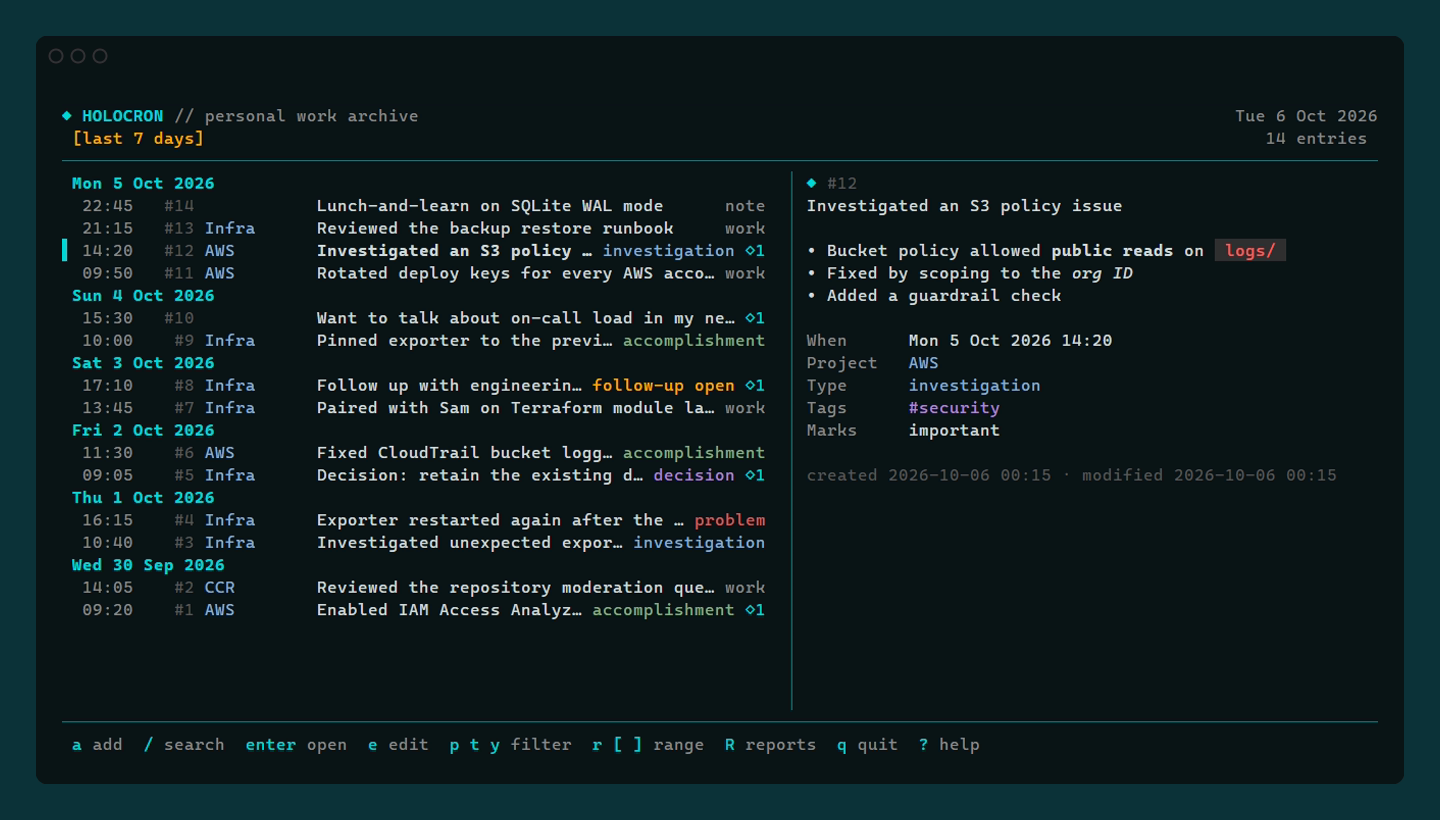
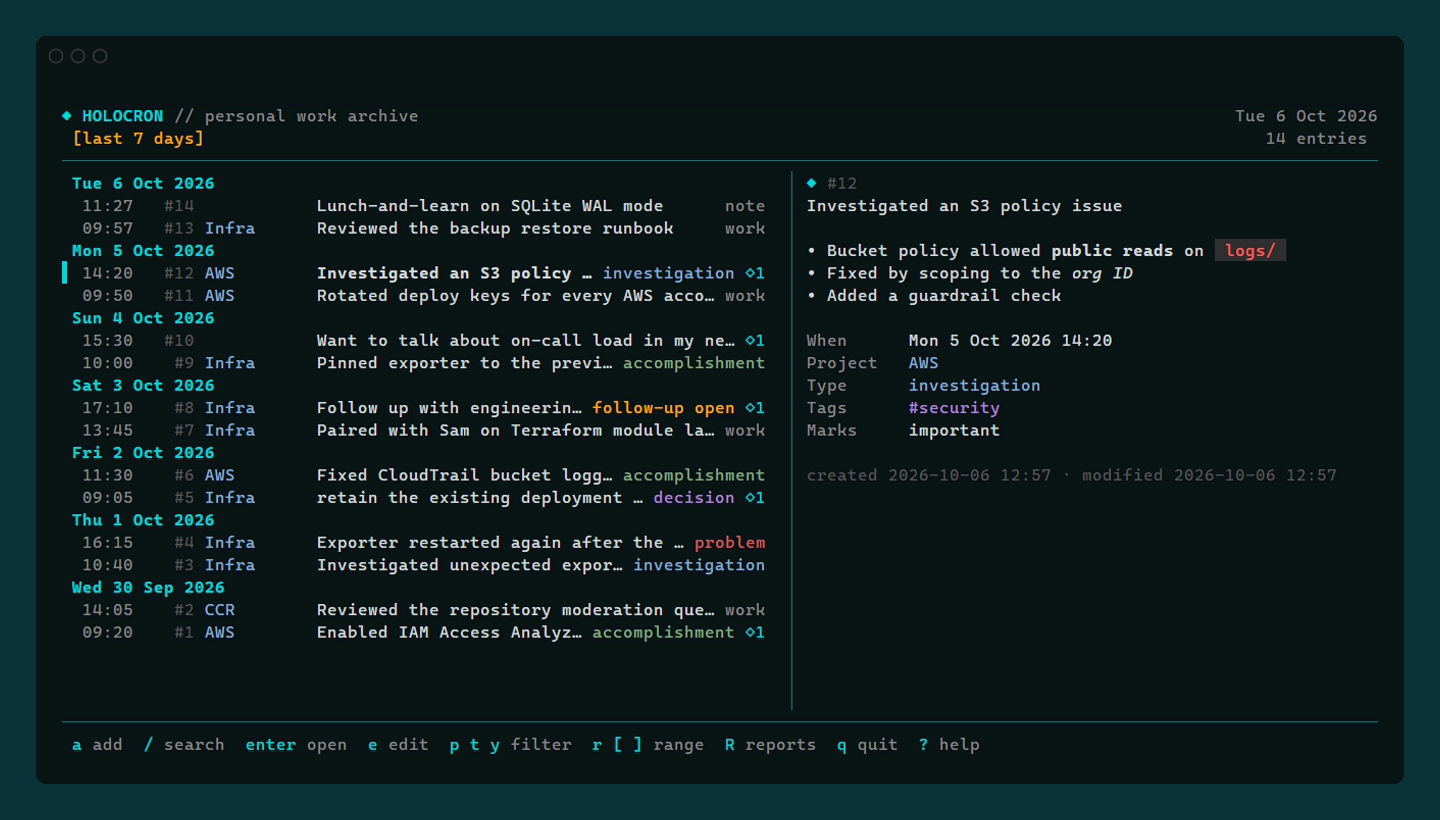
Strip the type prefix from captured entry text (#2)
Closes #1

## What changes

A leading type name and colon in quick capture (`Decision: keep weekly
deploy windows`) still sets the entry's type, and is now removed from
the stored text. The type no longer appears twice in listings, reports
and exports.

| Input | Stored text | Type |
|---|---|---|
| `Decision: keep weekly deploy windows +infra` | keep weekly deploy
windows | decision |
| `decision:no space` / `PROBLEM : spaced out` | no space / spaced out |
decision / problem |
| `Decision: keep it` with `--type work` | Decision: keep it | work |
| `Decision: keep it` with `--raw` | Decision: keep it | — |
| `Decisions: not a type` | Decisions: not a type | — |

Applies to `holocron add`, `holocron now` and TUI quick add (`a`), which
share the capture rules. Entries already in an archive are not changed.

## Notes

- If an explicit `--type` names a different type, the prefix is treated
as ordinary text and kept, so nothing typed is lost.
- The rest of the text keeps its original case (no auto-capitalisation,
which would mangle words like `npm` or `iOS`).
- README and `holocron add --help` are updated, and the README images
are regenerated with `go run ./docs/demo`.

## Testing

- New cases for spacing, letter case, near-misses, multi-line text, a
preceding `+project`, matching and conflicting `--type`, `--raw`, and
TUI quick add.
- `go test ./...`, `go vet` and `golangci-lint` pass locally on Windows.

Changed region(s): [[0.2188, 0.2744, 0.5312, 0.7927], [0.0312, 0.2439, 0.1875, 0.7927], [0.0312, 0.2134, 0.0625, 0.2439]]

diff --git a/internal/journal/shorthand.go b/internal/journal/shorthand.go
@@ -12,12 +12,15 @@ type Capture struct {
 	Project string
 	Tags    []string
 	Type    Type
+	// TypePrefix is the "Decision: " text removed from the start of Body when
+	// it set Type, so a caller overriding the type can put it back.
+	TypePrefix string
 }
 
 var (
 	wordRe     = regexp.MustCompile(`\S+`)
 	sigilRe    = regexp.MustCompile(`^([+#])(\p{L}[\p{L}\p{N}_./:-]*?)([.,;:!?)]*)$`)
-	typeLeadRe = regexp.MustCompile(`(?i)^(decision|problem|investigation|follow-?up|accomplishment|note|work)\s*:\s*\S`)
+	typeLeadRe = regexp.MustCompile(`(?i)^(decision|problem|investigation|follow-?up|accomplishment|note|work)\s*:\s*(\S)`)
 )
 
 // ParseShorthand extracts +project and #tag tokens from quick-capture text.
@@ -30,8 +33,9 @@ var (
 //   - Tokens in the middle of a sentence keep their word in the body without
 //     the sigil: "Patched #security hole" stores "Patched security hole".
 //   - At most one +project may be given.
-//   - Text beginning with a type name and a colon ("Decision: ...") gets
-//     that type unless one is set explicitly. The body is left unchanged.
+//   - Text beginning with a type name and a colon ("Decision: ...") gets that
+//     type, and the prefix is removed from the body: "Decision: keep it"
+//     stores "keep it" as a decision.
 //
 // Shells treat an unquoted # as a comment, so #tags must be inside quotes.
 func ParseShorthand(text string) (Capture, error) {
@@ -89,9 +93,11 @@ func ParseShorthand(text string) (Capture, error) {
 		}
 		c.Body = strings.TrimSpace(b.String())
 	}
-	if m := typeLeadRe.FindStringSubmatch(c.Body); m != nil {
-		if t, err := ParseType(m[1]); err == nil {
+	if m := typeLeadRe.FindStringSubmatchIndex(c.Body); m != nil {
+		if t, err := ParseType(c.Body[m[2]:m[3]]); err == nil {
 			c.Type = t
+			c.TypePrefix = c.Body[:m[4]]
+			c.Body = c.Body[m[4]:]
 		}
 	}
 	return c, nil

diff --git a/internal/journal/journal_test.go b/internal/journal/journal_test.go
@@ -489,8 +489,16 @@ func TestShorthand(t *testing.T) {
 		{"+aws #security Fixed S3 bucket policy", "Fixed S3 bucket policy", "aws", []string{"security"}, ""},
 		{"Patched #security hole in +aws today.", "Patched security hole in aws today.", "aws", []string{"security"}, ""},
 		{"Fixed bug #123 and C# parser, +1 from team", "Fixed bug #123 and C# parser, +1 from team", "", nil, ""},
-		{"Decision: retain the existing deployment model #arch", "Decision: retain the existing deployment model", "", []string{"arch"}, TypeDecision},
-		{"Follow-up: ask about ARM capacity", "Follow-up: ask about ARM capacity", "", nil, TypeFollowUp},
+		{"Decision: retain the existing deployment model #arch", "retain the existing deployment model", "", []string{"arch"}, TypeDecision},
+		{"decision:no space after the colon", "no space after the colon", "", nil, TypeDecision},
+		{"PROBLEM :   exporter restarts", "exporter restarts", "", nil, TypeProblem},
+		{"+aws Accomplishment: rotated keys", "rotated keys", "aws", nil, TypeAccomplishment},
+		{"Note: first line\nsecond line", "first line\nsecond line", "", nil, TypeNote},
+		{"Decisions: not a type name", "Decisions: not a type name", "", nil, ""},
+		{"Decision:", "Decision:", "", nil, ""},
+		{"Mid-sentence decision: stays as text", "Mid-sentence decision: stays as text", "", nil, ""},
+		{"Follow-up: ask about ARM capacity", "ask about ARM capacity", "", nil, TypeFollowUp},
+		{"followup: ask again", "ask again", "", nil, TypeFollowUp},
 		{"Shipped it #release.", "Shipped it", "", []string{"release"}, ""},
 		{"line one\nline two #tag", "line one\nline two", "", []string{"tag"}, ""},
 		{"#only #tags", "", "", []string{"only", "tags"}, ""},

diff --git a/internal/app/app_test.go b/internal/app/app_test.go
@@ -60,6 +60,23 @@ func TestCaptureRules(t *testing.T) {
 	if res.Entry.Type != journal.TypeWork {
 		t.Fatal("explicit --type must beat inferred type")
 	}
+	if res.Entry.Body != "Decision: keep it" {
+		t.Fatalf("a conflicting --type must keep the text as typed, got %q", res.Entry.Body)
+	}
+
+	// The type prefix sets the type and is removed from the stored text (#1).
+	res, _ = a.Capture(ctx, CaptureInput{Text: "Decision: keep weekly deploy windows +infra"})
+	if res.Entry.Type != journal.TypeDecision || res.Entry.Body != "keep weekly deploy windows" || res.Entry.Project != "infra" {
+		t.Fatalf("type prefix capture = %q %q %q", res.Entry.Type, res.Entry.Body, res.Entry.Project)
+	}
+	res, _ = a.Capture(ctx, CaptureInput{Text: "decision: agreed with --type", Type: "dec"})
+	if res.Entry.Type != journal.TypeDecision || res.Entry.Body != "agreed with --type" {
+		t.Fatalf("matching --type should still strip the prefix: %q %q", res.Entry.Type, res.Entry.Body)
+	}
+	res, _ = a.Capture(ctx, CaptureInput{Text: "Decision: kept as typed", Raw: true})
+	if res.Entry.Type != journal.TypeNone || res.Entry.Body != "Decision: kept as typed" {
+		t.Fatalf("--raw must keep the prefix: %q %q", res.Entry.Type, res.Entry.Body)
+	}
 
 	strict := openApp(t, "[capture]\ncreate_projects = false\nshorthand = false\n")
 	if _, err := strict.Capture(ctx, CaptureInput{Text: "x", Project: "nope"}); !errors.Is(err, journal.ErrNotFound) {

diff --git a/internal/cli/add.go b/internal/cli/add.go
@@ -57,7 +57,8 @@ Shorthand inside the text sets metadata quickly:
   #tag       add a tag (quote the text: shells treat a bare # as a comment)
 Tokens at the start or end are removed from the text; in mid-sentence the
 word stays without its sigil. "#123", "C#" and "+1" are left alone.
-Text starting with a type and a colon ("Decision: ...") gets that type.
+Text starting with a type and a colon ("Decision: keep it") gets that type,
+and the prefix is removed from the stored text.
 Use --raw to turn shorthand off, or the flags for an unambiguous form.`,
 		Example: `  holocron add "Enabled IAM Access Analyzer in all AWS regions"
   holocron add "Investigating unexpected exporter restarts" --project cloudflare --type investigation --tag monitoring

diff --git a/internal/tui/tui_test.go b/internal/tui/tui_test.go
@@ -671,3 +671,14 @@ func TestFilterChangeDuringPageLoadKeepsPaging(t *testing.T) {
 		t.Fatalf("paging stuck after a filter change: %d of %d", len(m.entries), m.total)
 	}
 }
+
+func TestQuickAddTypePrefixIsStripped(t *testing.T) {
+	m := start(t, 100, 30)
+	m = send(t, m, key("a"))
+	m = typeText(t, m, "Decision: keep weekly deploy windows +Infra")
+	m = send(t, m, key("enter"))
+	c := m.current()
+	if c == nil || c.Type != journal.TypeDecision || c.Body != "keep weekly deploy windows" || c.Project != "Infra" {
+		t.Fatalf("quick add with a type prefix = %+v", c)
+	}
+}

diff --git a/internal/cli/cli_test.go b/internal/cli/cli_test.go
@@ -140,7 +140,7 @@ func TestCaptureForms(t *testing.T) {
 	if fixed.Project == nil || *fixed.Project != "aws" || strings.Join(fixed.Tags, ",") != "iam,security" {
 		t.Errorf("shorthand not applied: %+v", fixed)
 	}
-	dec := all[byBody["Decision: retain the existing deployment model for now"]]
+	dec := all[byBody["retain the existing deployment model for now"]]
 	if dec.Type == nil || *dec.Type != "decision" || len(dec.Marks) != 1 {
 		t.Errorf("type inference or mark missing: %+v", dec)
 	}

diff --git a/internal/app/app.go b/internal/app/app.go
@@ -143,6 +143,11 @@ func (a *App) Capture(ctx context.Context, in CaptureInput) (CaptureResult, erro
 		if err != nil {
 			return CaptureResult{}, err
 		}
+		if sh.TypePrefix != "" && t != sh.Type {
+			// An explicit, different --type wins, so the leading "Note:" was
+			// not shorthand after all: keep the text exactly as typed.
+			text = sh.TypePrefix + text
+		}
 		typ = t
 	}
 	marks, err := journal.ParseMarks(in.Marks)

diff --git a/README.md b/README.md
@@ -134,9 +134,12 @@ The rules are deliberately simple and predictable:
   middle keep their word without the sigil, so the third example is stored as
   "Patched security hole in the aws account".
 - Only one `+project` is allowed per entry.
-- Text that begins with a type and a colon, such as `Decision: ...` or
-  `Follow-up: ...`, gets that type unless `--type` says otherwise. The text is
-  not changed.
+- Text that begins with a type and a colon gets that type, and the prefix is
+  removed: `Decision: keep weekly deploy windows` is stored as the decision
+  "keep weekly deploy windows". This works for every type (`Work:`,
+  `Accomplishment:`, `Decision:`, `Investigation:`, `Problem:`, `Follow-up:`,
+  `Note:`), in any letter case. If `--type` names a different type, the
+  prefix is treated as ordinary text and kept.
 
 > **Quote text that contains `#`.** Bash, Zsh and PowerShell treat an unquoted
 > word starting with `#` as a comment and silently drop it. Inside quotes it is
